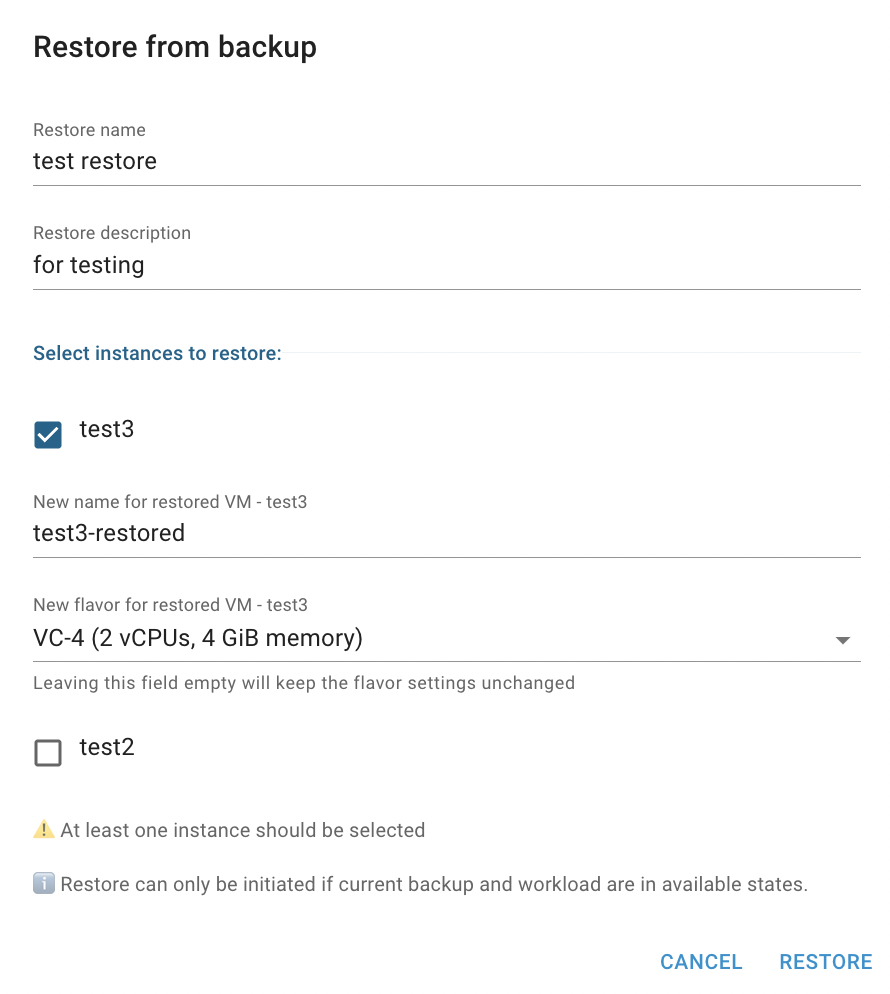
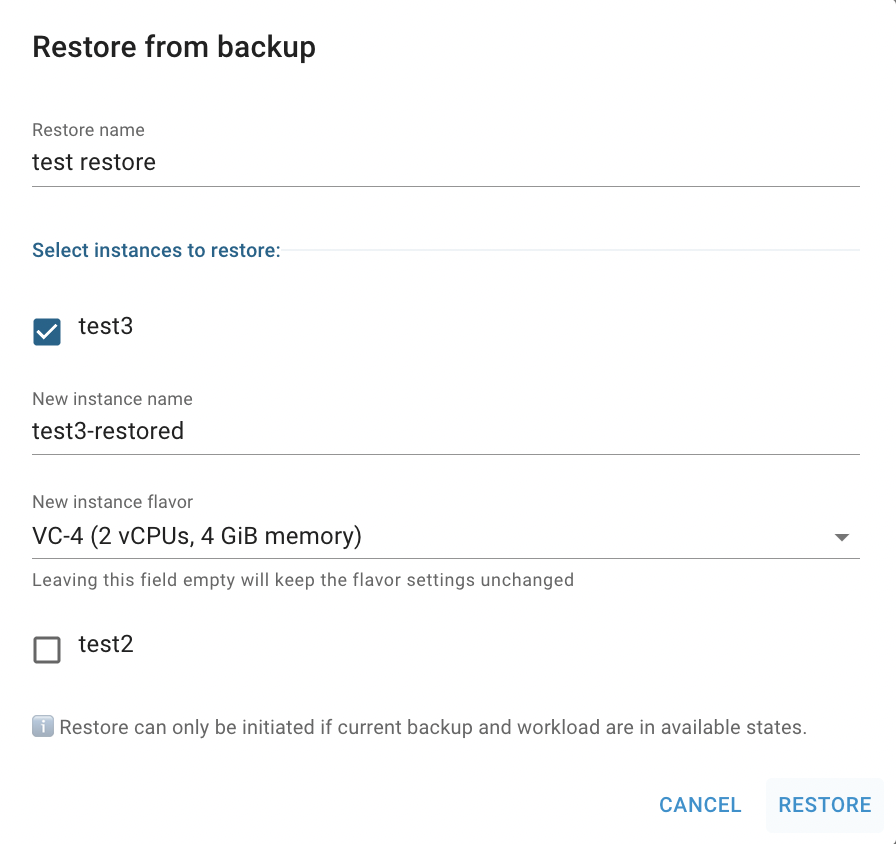
fix restores page

diff --git a/content/products/backups/restores.md b/content/products/backups/restores.md
@@ -65,15 +65,15 @@ To restore VMs from Backup, do the following:
 
 - open the *Restores TAB* or *Backuped VMs TAB* on the *Backup details page* and click on the RESTORE VM icon in the upper left corner;
 - fill in the form on the next opened *Restore from Backup window*:
-  - *Restore ame* - assign a name to the Restore record;  
-  - *Restore description* - provide a description for the Restore record;  
+  - *Restore name* - assign a name to the Restore record;  
   - *Select instances to restore* - if the backup includes multiple VMs, select which ones you want to restore:
-    - *New name for restored VM* -  assign a new name for the restored VM;
-    - *New flavor for restored VM* - select a new flavor for the restored VM. If this field is left empty, the VM will be restored with its original flavor.
+    - *New instance name* -  assign a new name for the restored VM. If this field is left empty, the VM will be restored with its original name.
+    - *New instance flavor* - select a new flavor for the restored VM. If this field is left empty, the VM will be restored with its original flavor.
 
 ![](../../../assets/images/backups/31-1.png?width=35pc&classes=border,shadow). 
 
-After these steps, the newly created Restore record will be added to the *Restores TAB* and  you can navigate to the *Virtual Machines page* to see that the restored VM is being created and will be in ACTIVE status in a few minutes.
+After these steps, the newly created Restore record will be added to the *Restores TAB* and  you can navigate to the *Virtual Machines page* to see that the restored VM is being created and will be in ACTIVE status in a few minutes:  
+![](../../../assets/images/backups/33.png?classes=border,shadow)
 
 The restore process will bring back all selected VMs to the same state as when they were backed up. They will:  
 - be created in the same project;
@@ -81,6 +81,9 @@ The restore process will bring back all selected VMs to the same state as when t
 - have the same image and flavor;
 - use the same key pair.   
 However, you can assign a new name and flavor to the restored VMs during the process.
+
+Restore can also be initiated from the *CREATED BACKUPS TAB* on the *Workload details page* by clicking on the **Actions** icon of the appropriate Backup and selecting the **Restore from backup** action there:  
+![](../../../assets/images/backups/34.png?classes=border,shadow)
 
 ## Cancel Restore
 To cancel the ongoing Restore, do the following:
